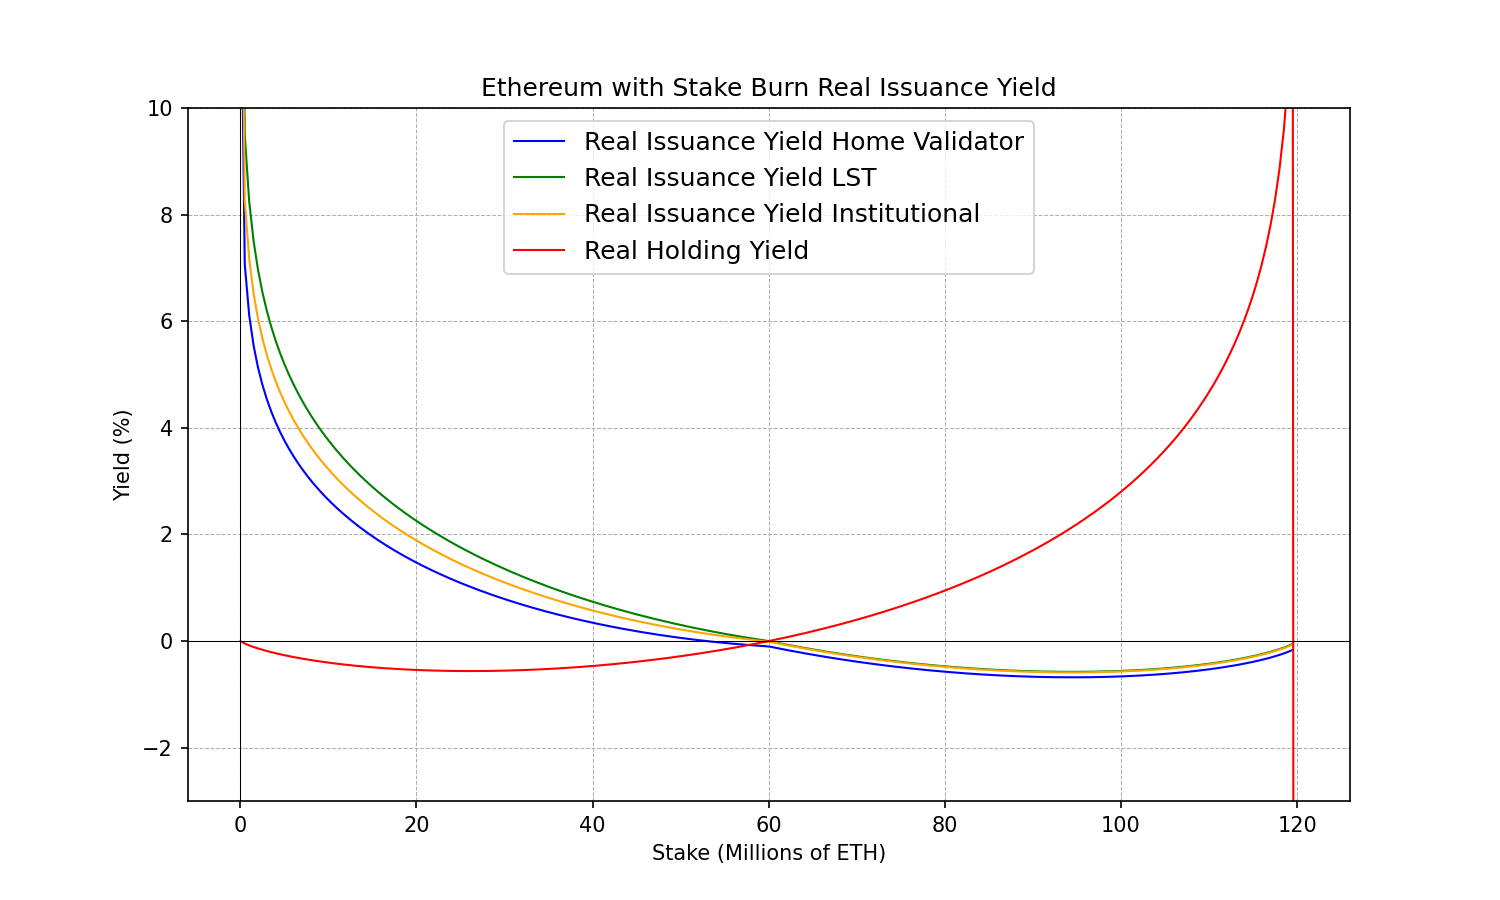
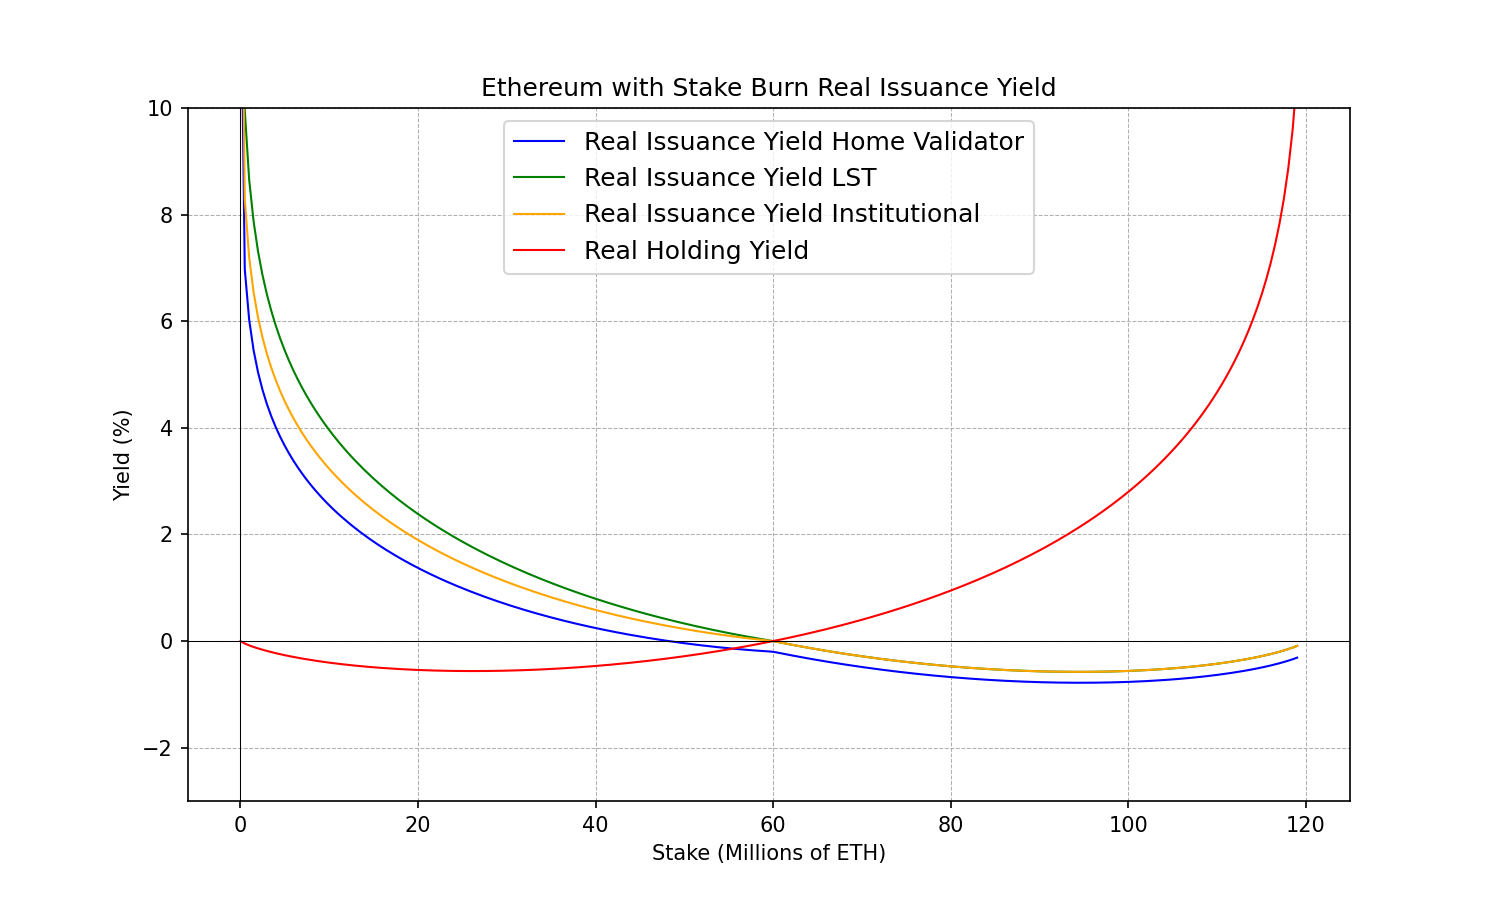
crop right-side to prevent asymptotic blowup in the plot

diff --git a/plots/log_issuance_with_burn/real_yield_plot.py b/plots/log_issuance_with_burn/real_yield_plot.py
@@ -9,7 +9,7 @@ from common import CIRCULATING_SUPPLY, percentage_yield
 from cost_structure import home_staking, lst_staking, institutional_staking
 from plots.formatters import issuance_formatter, stake_formatter
 
-x = np.linspace(3200, CIRCULATING_SUPPLY, 240)
+x = np.linspace(3200, CIRCULATING_SUPPLY - 1_000_000, 240)
 
 
 real_staking_yield_solo = percentage_yield(real_issuance_yield(issuance_yield=log_issuance_with_burn_yield(x),
